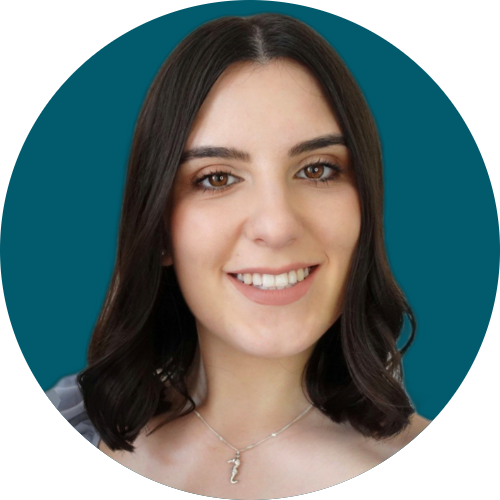
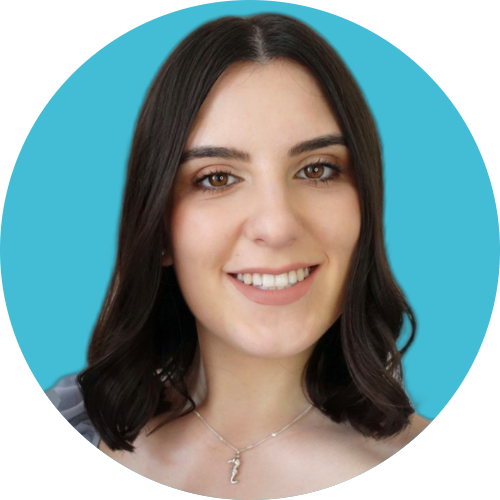
minor fixes, added pictures

Changed region(s): [[0.0, 0.0, 1.0, 0.84]]

diff --git a/src/pages/index.js b/src/pages/index.js
@@ -15,6 +15,7 @@ import Hero from '../components/Hero';
 import Layout from '../components/Layout';
 import HeroText from '../components/HeroText';
 import Social from '../components/Social';
+import Technologies from '../components/Technologies';
 
 
 import media from '../utils/style';
@@ -64,22 +65,29 @@ const IndexPage = ({ data }) => {
       <Projects edges={data.allProjectJson.edges} />
     </Section>
     <Parallax bgImage={data.fieldwork.edges[0].node.fluid.srcWebp} strength={200} bgClassName={"parallax-img"}>
-      <div style={{ height: '650px' }} />
+      <div style={{ height: '750px' }} />
     </Parallax>
     <Section id="experience" dark>
       <SectionTitle>My Experience</SectionTitle>
       <Experience edges={data.allExperienceJson.edges} />
     </Section>
+    <Parallax bgImage={data.microscope.edges[0].node.fluid.srcWebp} strength={200} bgClassName={"parallax-img"}>
+      <div style={{ height: '750px' }} />
+    </Parallax>
     <Section id="education">
       <SectionTitle>My Education</SectionTitle>
       <Educations edges={data.allEducationJson.edges} />
     </Section>
+    <Parallax bgImage={data.turtle.edges[0].node.fluid.srcWebp} strength={200} bgClassName={"parallax-img"}>
+      <div style={{ height: '750px' }} />
+    </Parallax>
     <Section id="certifications" dark>
       <SectionTitle>My Certifications</SectionTitle>
+      {/* <Technologies edges={data.allCertificationsJson.edges} /> */}
       <Certifications edges={data.allCertificationsJson.edges} />
     </Section>
-    <Parallax bgImage={data.snorkeling.edges[0].node.fluid.srcWebp} strength={200} bgClassName={"parallax-img"}>
-      <div style={{ height: '650px' }} />
+    <Parallax bgImage={data.diving.edges[0].node.fluid.srcWebp} strength={200} bgClassName={"parallax-img"}>
+      <div style={{ height: '750px' }} />
     </Parallax>
     <Section id="languages">
       <SectionTitle>My Languages</SectionTitle>
@@ -177,8 +185,32 @@ export const pageQuery = graphql`
         }
       }
     }
-    snorkeling: allImageSharp(
-      filter: { original: { src: { regex: "/snorkeling/" } } }
+    diving: allImageSharp(
+      filter: { original: { src: { regex: "/diving/" } } }
+    ) {
+      edges {
+        node {
+          id
+          fluid(maxWidth: 1920) {
+            ...GatsbyImageSharpFluid_withWebp
+          }
+        }
+      }
+    }
+    microscope: allImageSharp(
+      filter: { original: { src: { regex: "/microscope/" } } }
+    ) {
+      edges {
+        node {
+          id
+          fluid(maxWidth: 1920) {
+            ...GatsbyImageSharpFluid_withWebp
+          }
+        }
+      }
+    }
+    turtle: allImageSharp(
+      filter: { original: { src: { regex: "/turtle/" } } }
     ) {
       edges {
         node {

diff --git a/src/components/Projects.js b/src/components/Projects.js
@@ -46,7 +46,8 @@ const Title = styled.h3`
 const Description = styled.div`
   display: block;
   clear: both;
-  text-align:center;
+  text-align: center;
+  margin: 1rem 0;
 `;
 
 const Video = styled.iframe`
@@ -67,7 +68,7 @@ function Projects(props) {
                 width="360" 
                 height="200" 
                 frameborder="0" 
-                allow="accelerometer; autoplay; clipboard-write; encrypted-media; gyroscope; picture-in-picture fullscreen" 
+                allow="accelerometer; autoplay; clipboard-write; encrypted-media; gyroscope; picture-in-picture allowfullscreen" 
                 allowfullscreen/>
             <Title>{item.title}</Title>
             <Description>{item.description}</Description>

diff --git a/src/components/Educations.js b/src/components/Educations.js
@@ -40,18 +40,6 @@ const School = styled.div`
   `}
 `;
 
-const Description = styled.div`
-  display: block;
-  clear: both;
-  text-align: left;
-  margin: 1rem 0;
-  font-size: 100%;
-  width: 85%;
-  ${media.xs`
-    text-align:center;
-    width: 100%;
-  `}
-`;
 
 function Educations(props) {
   const { edges } = props;
@@ -66,7 +54,6 @@ function Educations(props) {
           </Duration>
           <Program>{item.program}</Program>
           <School><strong>{item.school}</strong> - <em>{item.location}</em></School>
-          <Description>{item.description}</Description>
         </Item>
       ))}
     </>

diff --git a/src/components/Languages.js b/src/components/Languages.js
@@ -51,7 +51,7 @@ function Languages(props) {
     <Grid>
       {edges.map(({ node: item }) => (
         <Item key={item.id}>
-            <Flag code={item.code} height={48} style={{display: "block", margin: "auto"}}/>
+            <Flag code={item.code} height={48} style={{display: "block", margin: "1rem 0", borderRadius: ".35rem"}}/>
             <Language>{item.name}</Language>
             <Level>{item.level}</Level>
         </Item>

diff --git a/src/components/Layout.js b/src/components/Layout.js
@@ -72,7 +72,7 @@ const Footer = styled.footer`
   width: 100vw;
   text-align: center;
   color: #fff;
-  background-color: #015b6d;
+  background-color: rgb(77, 172, 191);
   img {
     margin-bottom: 0;
   }
